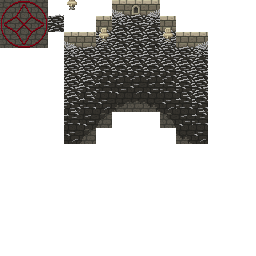
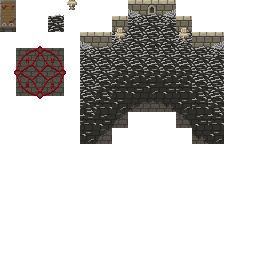
v4.0.0: overhauled visuals for ritual prison quest

Changed region(s): [[0.0, 0.0, 0.875, 0.5625], [0.5625, 0.3125, 0.5938, 0.3438], [0.5312, 0.3438, 0.5625, 0.375]]

diff --git a/core/src/main/java/com/shatteredpixel/shatteredpixeldungeon/levels/rooms/quest/RitualSiteRoom.java b/core/src/main/java/com/shatteredpixel/shatteredpixeldungeon/levels/rooms/quest/RitualSiteRoom.java
@@ -29,19 +29,24 @@ import com.shatteredpixel.shatteredpixeldungeon.levels.painters.Painter;
 import com.shatteredpixel.shatteredpixeldungeon.levels.rooms.standard.StandardRoom;
 import com.shatteredpixel.shatteredpixeldungeon.messages.Messages;
 import com.shatteredpixel.shatteredpixeldungeon.tiles.CustomTilemap;
+import com.watabou.noosa.Image;
 import com.watabou.noosa.Tilemap;
+import com.watabou.utils.Bundle;
 import com.watabou.utils.Point;
+import com.watabou.utils.Random;
+
+import java.util.Arrays;
 
 public class RitualSiteRoom extends StandardRoom {
 	
 	@Override
 	public int minWidth() {
-		return Math.max(super.minWidth(), 9);
+		return Math.max(super.minWidth(), 10);
 	}
 	
 	@Override
 	public int minHeight() {
-		return Math.max(super.minHeight(), 9);
+		return Math.max(super.minHeight(), 10);
 	}
 
 	public void paint( Level level ) {
@@ -53,9 +58,66 @@ public class RitualSiteRoom extends StandardRoom {
 		Painter.fill(level, this, Terrain.WALL);
 		Painter.fill(level, this, 1, Terrain.EMPTY);
 
+		boolean[] validTopRowCells = new boolean[10];
+		Arrays.fill(validTopRowCells, true);
+		//set wall tiles to false
+		validTopRowCells[0] = validTopRowCells[3] = validTopRowCells[6] = validTopRowCells[9] = false;
+		for (Door d : connected.values()){
+			if (d.y == top){
+				validTopRowCells[d.x-left] = false;
+			} else if (d.y <= top+2){
+				if (d.x == left)    validTopRowCells[1] = false;
+				else                validTopRowCells[8] = false;
+			}
+		}
+
+		Point topRow = new Point(left, top);
+		int cageRow = Random.Int(2);
+
+		for (int i = left; i < right; i+=3){
+			topRow.x = i;
+			Painter.drawInside(level, this, topRow, 2, Terrain.WALL);
+
+			//rare case of two doors (one side one top), just continue
+			if (!validTopRowCells[topRow.x+1 - left] && !validTopRowCells[topRow.x+2 - left]){
+				continue;
+			}
+
+			if (!validTopRowCells[topRow.x+2 - left]){
+				topRow.x += 1;
+			} else if (!validTopRowCells[topRow.x+1 - left]){
+				topRow.x += 2;
+			} else {
+				topRow.x += Random.IntRange(1, 2);
+			}
+
+			validTopRowCells[topRow.x-left] = false;
+			if (cageRow == 0){
+				Painter.drawInside(level, this, topRow, 2, Terrain.REGION_DECO);
+			} else {
+				Table table = new Table();
+				Painter.drawInside(level, this, topRow, 2, Terrain.CUSTOM_DECO);
+				table.pos(topRow.x, topRow.y + 1);
+				level.customTiles.add(table); //probably want this to be raised after fixing that
+			}
+			cageRow--;
+		}
+
+		//if there are any spare valid top row cells, stick a cage in one of them
+		int tries = 100;
+		do {
+			int i = Random.IntRange(1, 9);
+			if (validTopRowCells[i]){
+				topRow.x = left+i;
+				Painter.drawInside(level, this, topRow, 1, Terrain.REGION_DECO);
+				tries = 0;
+			}
+		} while (tries-- > 0);
+
 		RitualMarker vis = new RitualMarker();
 		Point c = center();
-		vis.pos(c.x - 1, c.y - 1);
+		c.y++;
+		vis.pos(c.x - 2, c.y - 2);
 
 		level.customTiles.add(vis);
 		
@@ -79,12 +141,21 @@ public class RitualSiteRoom extends StandardRoom {
 		return super.canPlaceCharacter(p, l) && l.distance(CeremonialCandle.ritualPos, l.pointToCell(p)) >= 2;
 	}
 
+	@Override
+	public boolean canConnect(Point p) {
+		//wall is placed here
+		if (p.y == top && (p.x == left+3 || p.x == left + 6)){
+			return false;
+		}
+		return super.canConnect(p);
+	}
+
 	public static class RitualMarker extends CustomTilemap {
 		
 		{
 			texture = Assets.Environment.PRISON_QUEST;
 			
-			tileW = tileH = 3;
+			tileW = tileH = 5;
 		}
 		
 		final int TEX_WIDTH = 256;
@@ -92,7 +163,55 @@ public class RitualSiteRoom extends StandardRoom {
 		@Override
 		public Tilemap create() {
 			Tilemap v = super.create();
-			v.map(mapSimpleImage(0, 0, TEX_WIDTH), 3);
+			v.map(mapSimpleImage(0, 2, TEX_WIDTH), 5);
+			return v;
+		}
+
+		@Override
+		public Image image(int tileX, int tileY) {
+			if (tileX == 0 || tileY == 0 || tileX == tileW-1 || tileY == tileH-1){
+				return null;
+			}
+			return super.image(tileX, tileY);
+		}
+
+		@Override
+		public String name(int tileX, int tileY) {
+			return Messages.get(this, "name");
+		}
+
+		@Override
+		public String desc(int tileX, int tileY) {
+			return Messages.get(this, "desc");
+		}
+
+		@Override
+		public void restoreFromBundle(Bundle bundle) {
+			super.restoreFromBundle(bundle);
+
+			if (tileW == 3){
+				tileW = tileH = 5;
+				tileX -= 1;
+				tileY -= 1;
+			}
+		}
+	}
+
+	public static class Table extends CustomTilemap {
+
+		{
+			texture = Assets.Environment.PRISON_QUEST;
+
+			tileW = 1;
+			tileH = 2;
+		}
+
+		final int TEX_WIDTH = 256;
+
+		@Override
+		public Tilemap create() {
+			Tilemap v = super.create();
+			v.map(mapSimpleImage(0, 0, TEX_WIDTH), 1);
 			return v;
 		}
 
@@ -105,6 +224,7 @@ public class RitualSiteRoom extends StandardRoom {
 		public String desc(int tileX, int tileY) {
 			return Messages.get(this, "desc");
 		}
+
 	}
 
 }

diff --git a/core/src/main/java/com/shatteredpixel/shatteredpixeldungeon/levels/rooms/quest/MassGraveRoom.java b/core/src/main/java/com/shatteredpixel/shatteredpixeldungeon/levels/rooms/quest/MassGraveRoom.java
@@ -222,7 +222,7 @@ public class MassGraveRoom extends SpecialRoom {
 		@Override
 		public Tilemap create() {
 			Tilemap v = super.create();
-			int[] data = mapSimpleImage( 4, 0, 256);
+			int[] data = mapSimpleImage( 5, 0, 256);
 			for (int i = 0; i < data.length; i++){
 				if (render[i] == 0) data[i] = -1;
 			}
